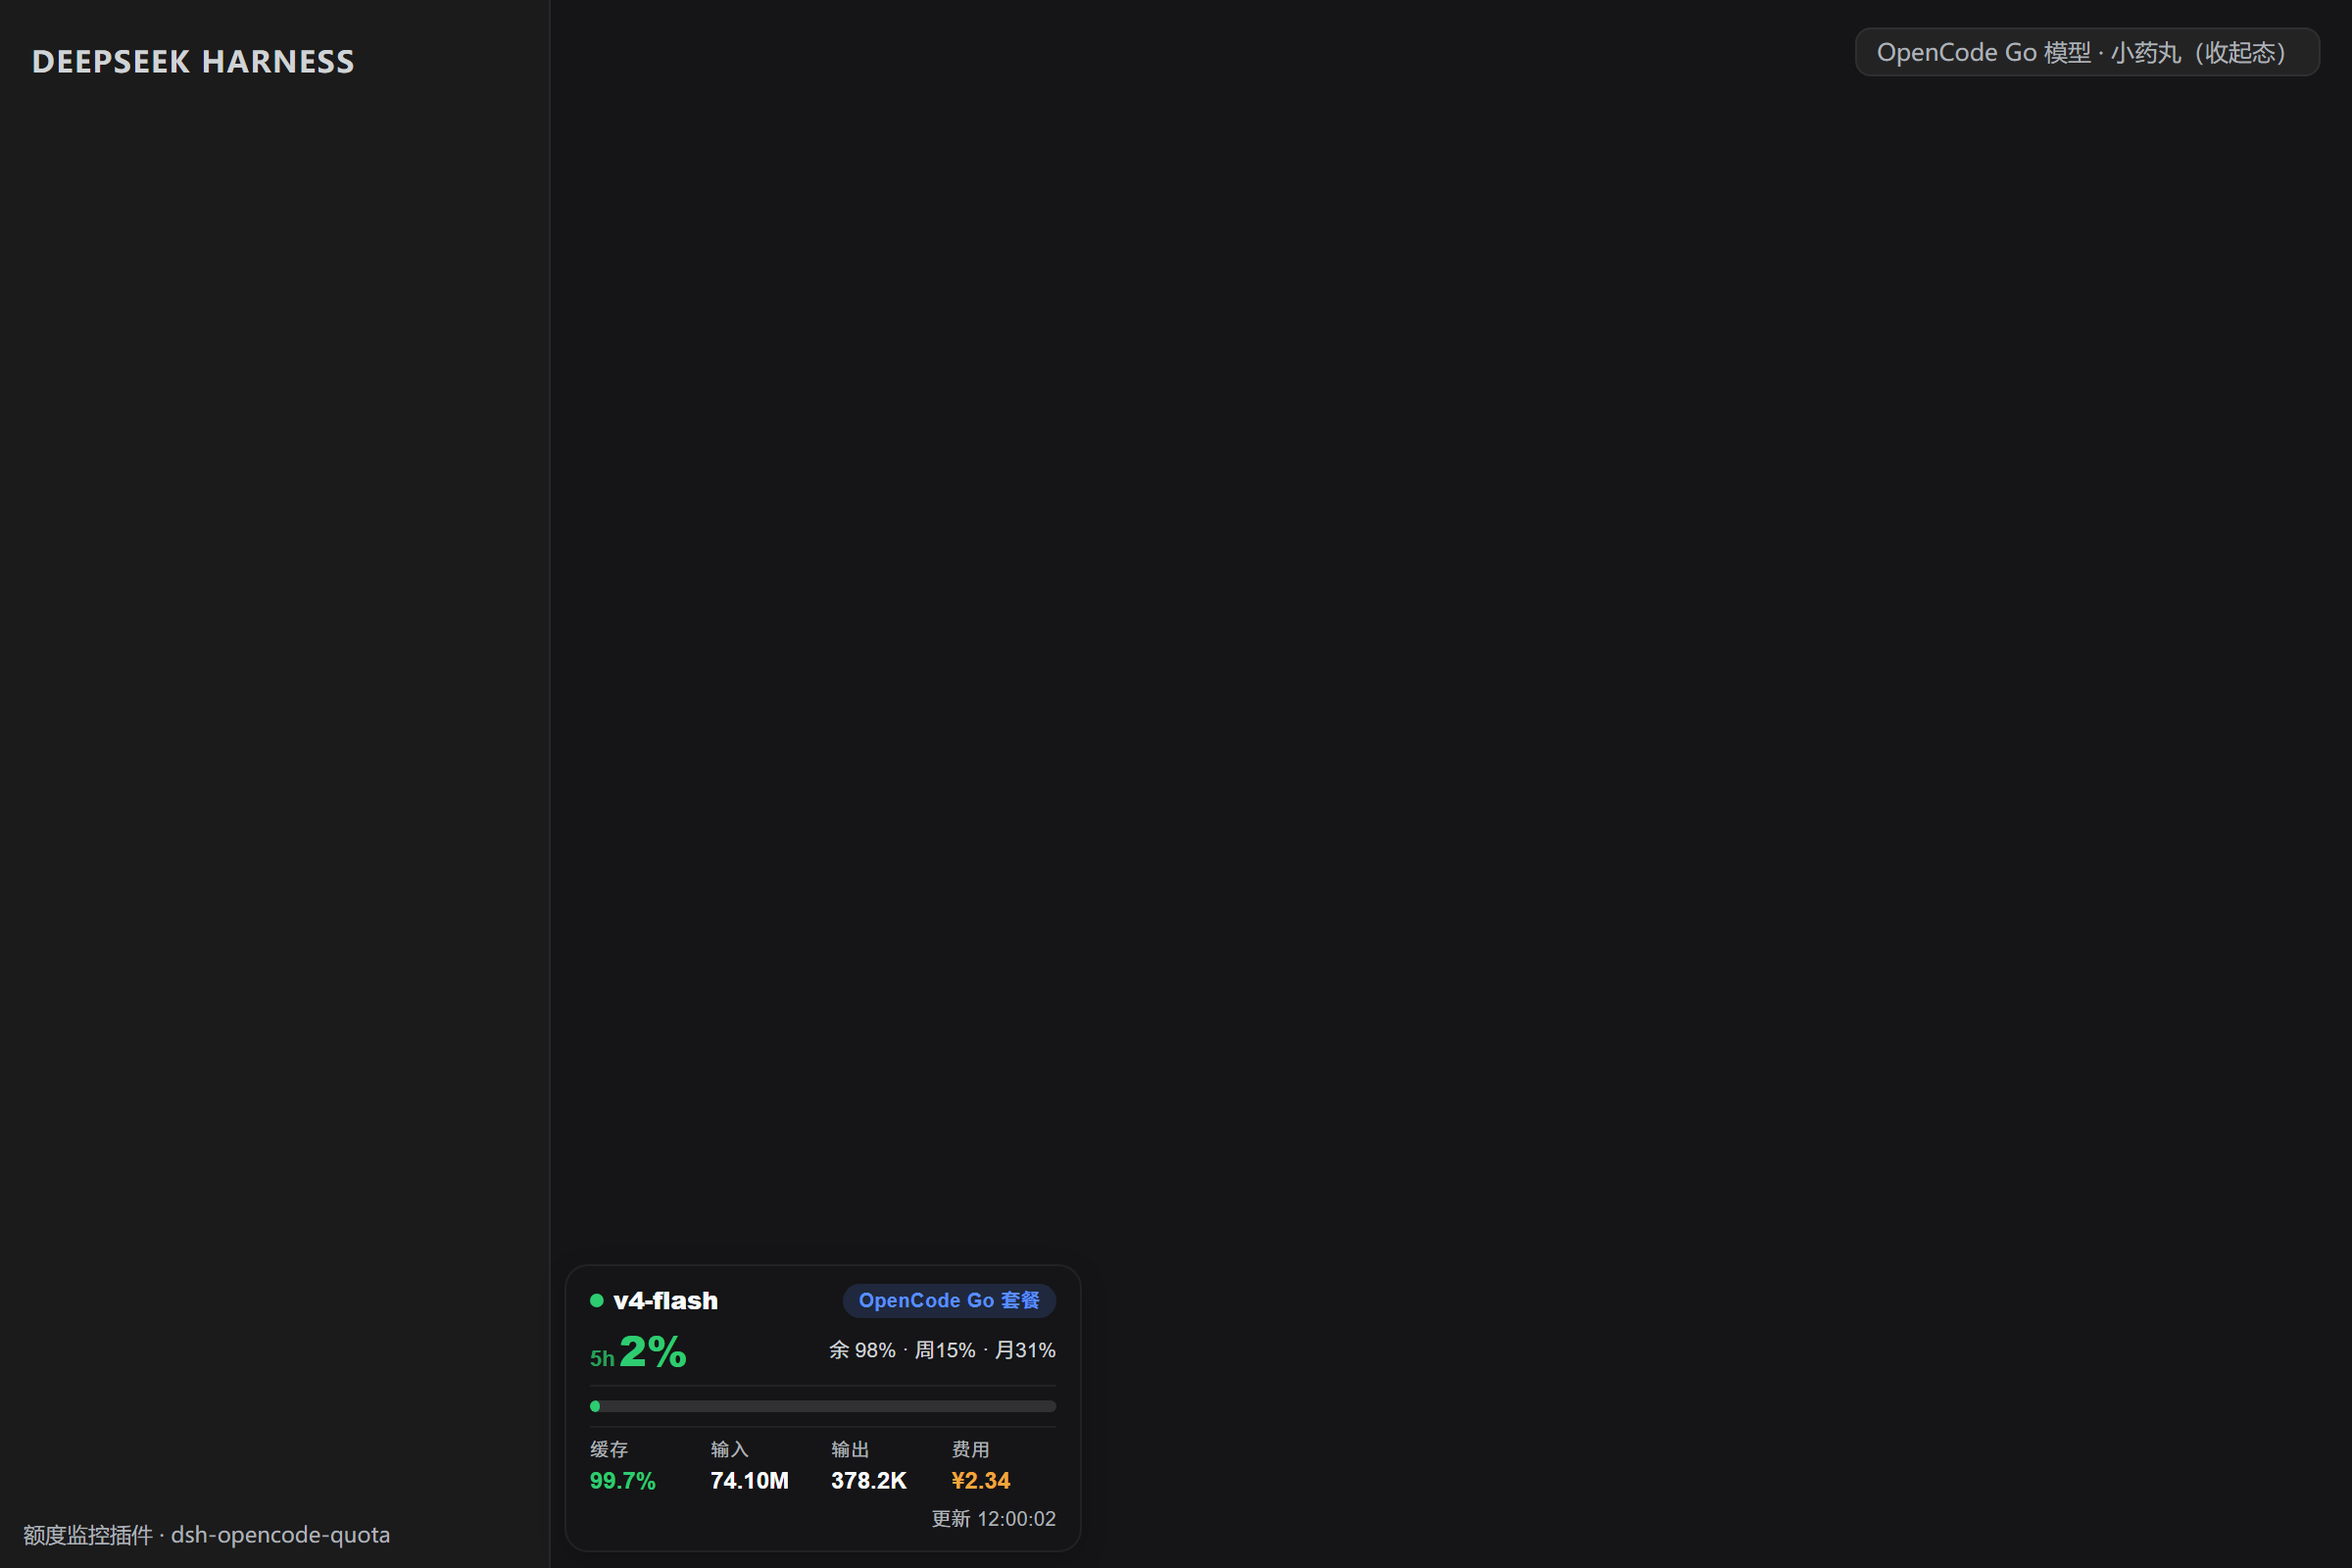
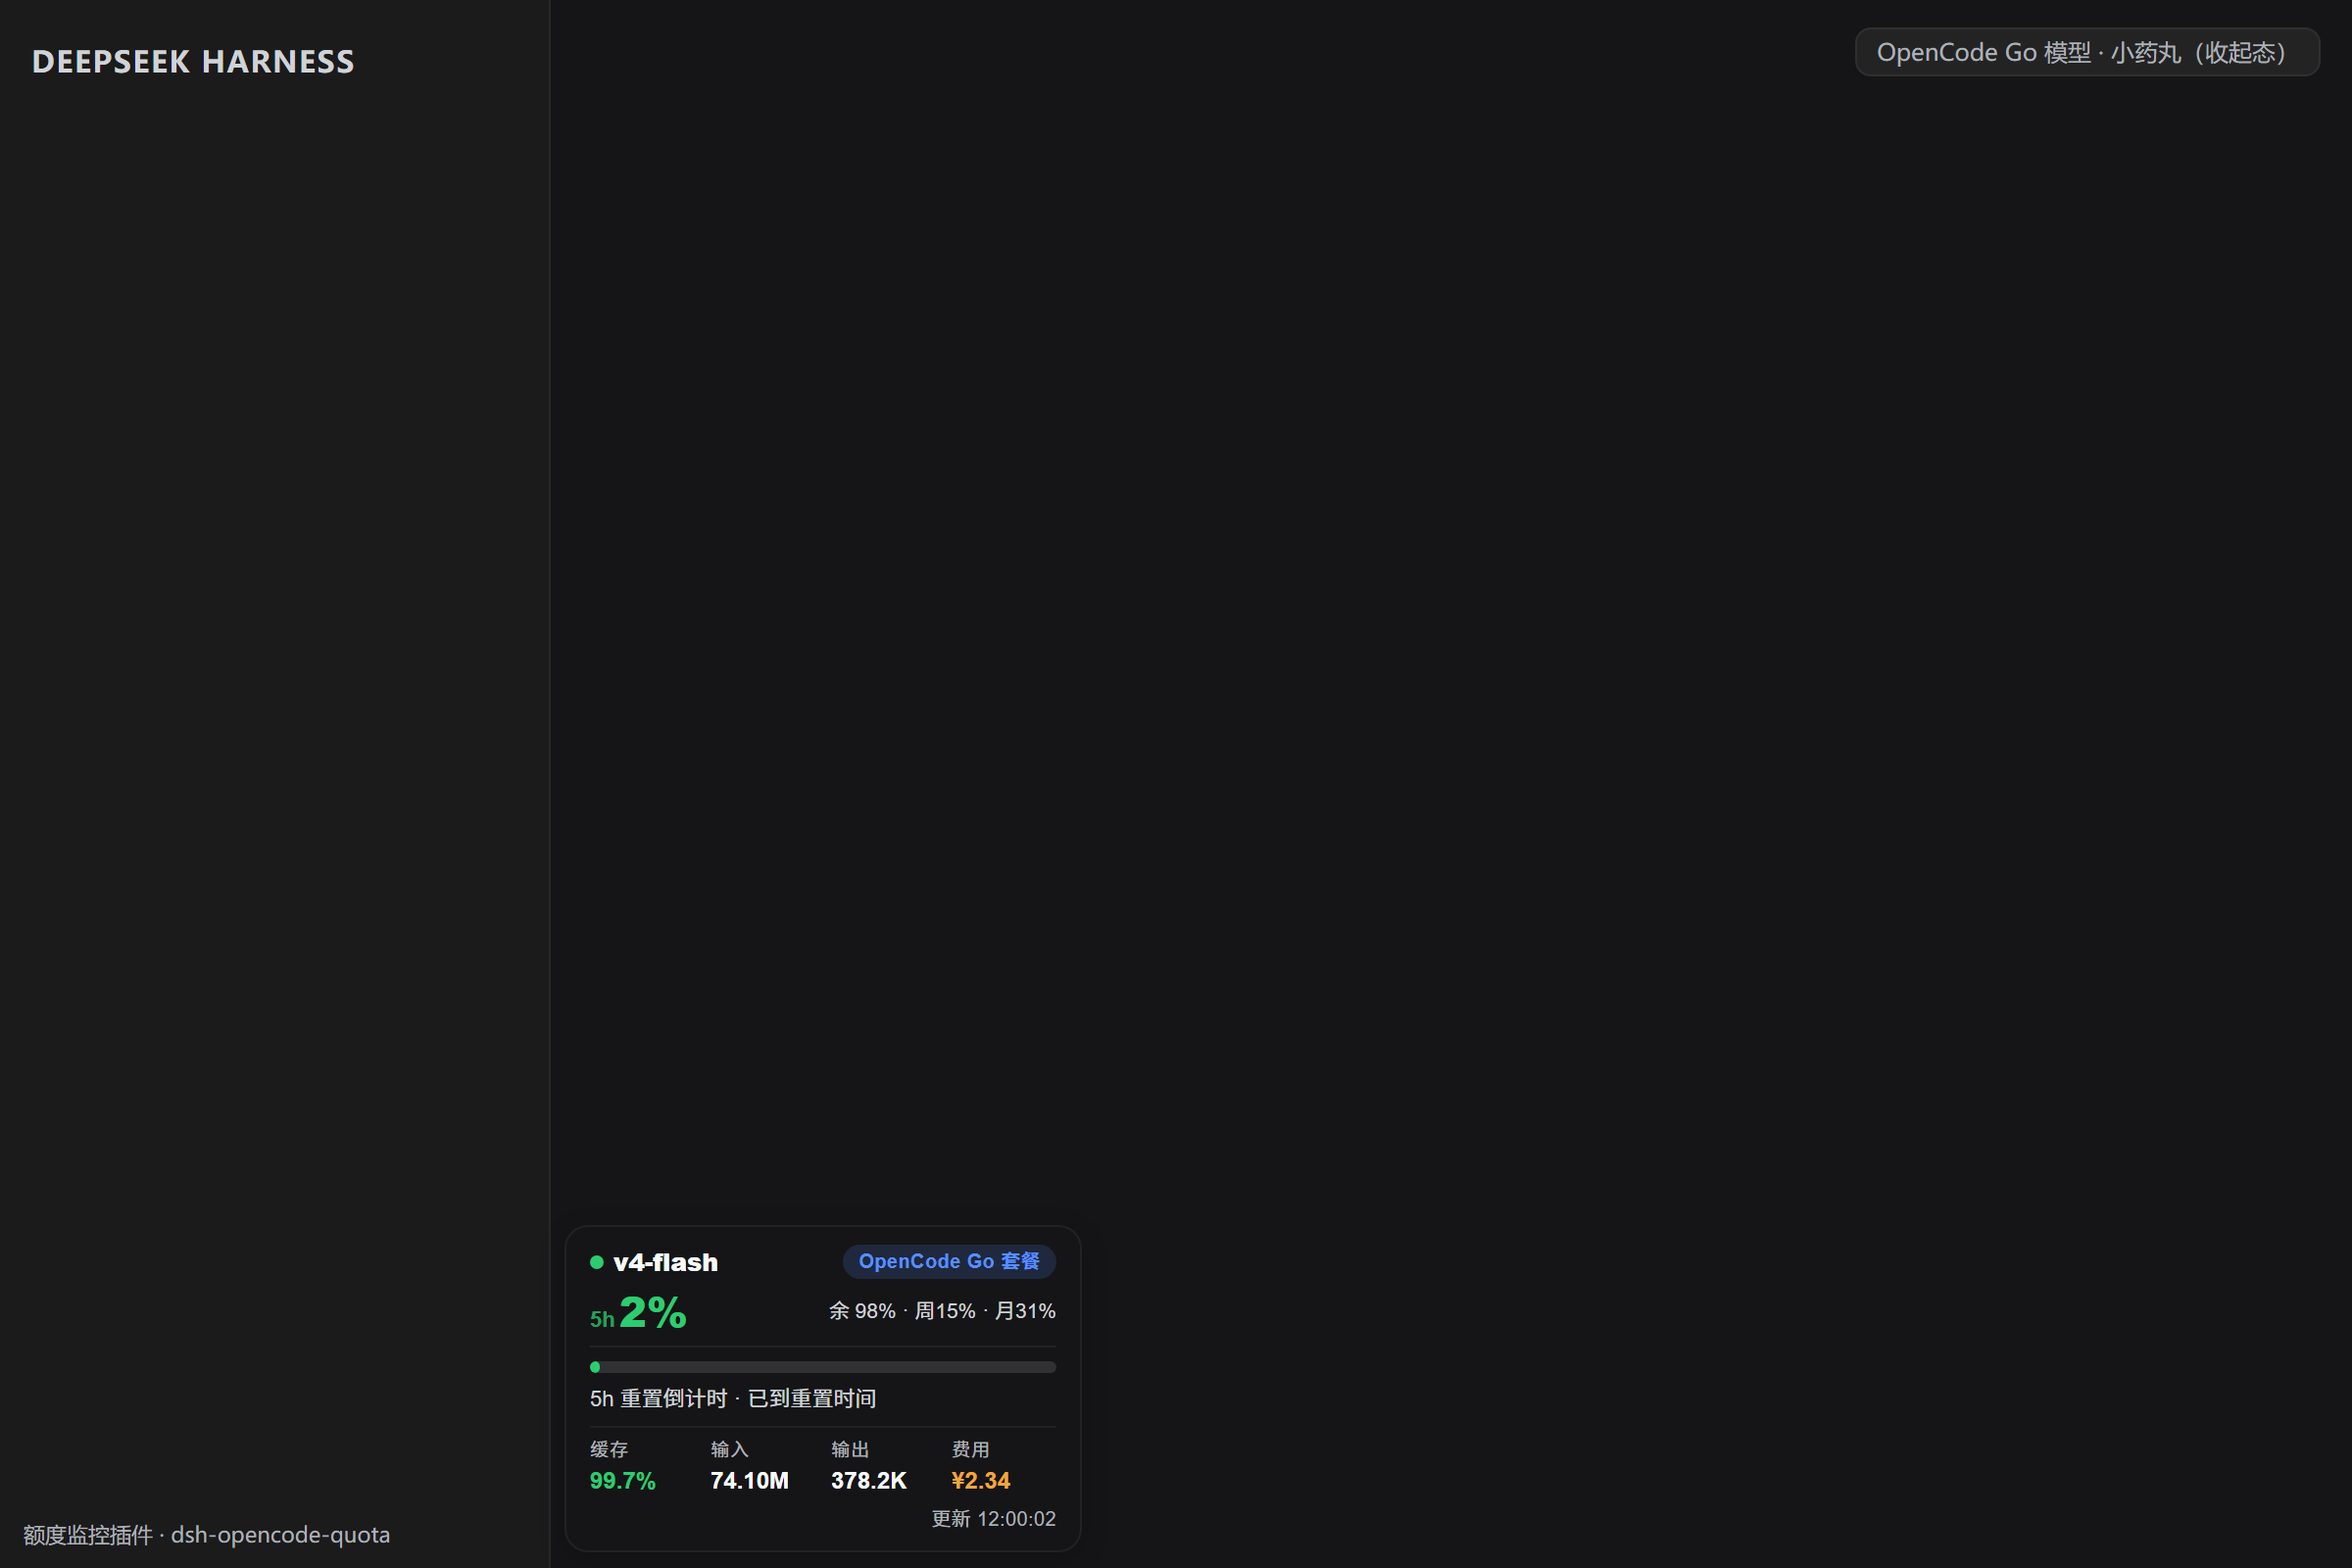
sync v0.5.0 from dsh-plugins/opencode-quota

Changed region(s): [[0.25, 0.7812, 0.4688, 0.9062]]

diff --git a/lib/client.js b/lib/client.js
@@ -576,10 +576,11 @@ window.__ModuleLoader__.load({
 		/**
 		 * The monitor widget: compact draggable summary card (collapsed) /
 		 * dashboard window (expanded), registered into the "shell.overlay" slot.
-		 * @param props - slot props incl. the injected `sessionsApi` (Remote face
-		 * of the sessions gateway) and `currentSessionId` (live reader).
+		 * @param props - slot props incl. `sessionsApi` (Remote face of the sessions
+		 * gateway), `currentSessionId` (live reader) and `subscribeModelStore`
+		 * (composer model-directory subscription for instant switch detection).
 		 */
-		function QuotaMonitor({ sessionsApi, currentSessionId }) {
+		function QuotaMonitor({ sessionsApi, currentSessionId, subscribeModelStore }) {
 			const [open, setOpen] = react.useState(false);
 			const [opencode, setOpencode] = react.useState({ status: "loading", at: new Date() });
 			const [deepseek, setDeepseek] = react.useState({ status: "loading", at: new Date() });
@@ -602,6 +603,8 @@ window.__ModuleLoader__.load({
 			});
 			const cardRef = react.useRef(null);
 			const suppressClickRef = react.useRef(false);
+			const modelSubRef = react.useRef(null);
+			const refreshRef = react.useRef(null);
 
 			/** Fetch the current session's stats/usage/cost (needs provider+model for pricing). */
 			const fetchTask = react.useCallback((provider, modelName, at) => {
@@ -636,6 +639,20 @@ window.__ModuleLoader__.load({
 					setDeepseek(ds);
 				});
 				const sessionId = typeof currentSessionId === "function" ? currentSessionId() : void 0;
+				/* keep the composer model-directory subscription on the current session */
+				if (modelSubRef.current !== null && modelSubRef.current.sessionId !== sessionId) {
+					modelSubRef.current.unsubscribe();
+					modelSubRef.current = null;
+				}
+				if (modelSubRef.current === null && typeof subscribeModelStore === "function") {
+					modelSubRef.current = {
+						sessionId,
+						unsubscribe: subscribeModelStore(sessionId, () => {
+							/* model switch in the chat box: update immediately */
+							if (refreshRef.current !== null) refreshRef.current();
+						})
+					};
+				}
 				if (sessionId === void 0 || sessionId === null) {
 					setModel({ status: "none", at });
 					setTask({ status: "none", at });
@@ -659,7 +676,9 @@ window.__ModuleLoader__.load({
 						setModel({ status: "error", error: String((error && error.message) || error), at });
 						fetchTask("", "", at);
 					});
-			}, [sessionsApi, currentSessionId, fetchTask]);
+			}, [sessionsApi, currentSessionId, fetchTask, subscribeModelStore]);
+
+			refreshRef.current = refresh;
 
 			react.useEffect(() => {
 				refresh();
@@ -670,6 +689,10 @@ window.__ModuleLoader__.load({
 				document.addEventListener("visibilitychange", onVisible);
 				window.addEventListener("focus", onVisible);
 				return () => {
+					if (modelSubRef.current !== null) {
+						modelSubRef.current.unsubscribe();
+						modelSubRef.current = null;
+					}
 					clearInterval(timer);
 					document.removeEventListener("visibilitychange", onVisible);
 					window.removeEventListener("focus", onVisible);
@@ -828,7 +851,7 @@ window.__ModuleLoader__.load({
 						(0, react_jsx_runtime.jsx)("span", { className: "oq-c-hero-sub", children: heroSub }, "plan-sub"),
 						/* zone separator */
 						(0, react_jsx_runtime.jsx)("span", { className: "oq-c-sep" }, "sep"),
-						/* zone 3: usage line (DeepSeek) or 5h progress bar (Go) */
+						/* zone 3: 5h progress bar + reset countdown (Go) or usage line (DeepSeek) */
 						useDs
 							? (0, react_jsx_runtime.jsx)("span", {
 								className: "oq-c-usage",
@@ -836,14 +859,22 @@ window.__ModuleLoader__.load({
 									? "累计用量 …"
 									: `累计 输入 ${fmtTokens(dsUsage.uncachedInputTokens)} · 缓存读取 ${fmtTokens(dsUsage.cacheReadTokens)} · 输出 ${fmtTokens(dsUsage.outputTokens)}`
 							}, "usage")
-							: (0, react_jsx_runtime.jsx)("span", {
-								className: "oq-c-bar",
-								children: (0, react_jsx_runtime.jsx)("i", {
-									style: {
-										width: `${goHeadline === null ? 0 : clamp(goHeadline.percent, 0, 100)}%`,
-										background: goHeadline === null ? "#ef5350" : percentColor(goHeadline.percent)
-									}
-								})
+							: (0, react_jsx_runtime.jsxs)(react_jsx_runtime.Fragment, {
+								children: [
+									(0, react_jsx_runtime.jsx)("span", {
+										className: "oq-c-bar",
+										children: (0, react_jsx_runtime.jsx)("i", {
+											style: {
+												width: `${goHeadline === null ? 0 : clamp(goHeadline.percent, 0, 100)}%`,
+												background: goHeadline === null ? "#ef5350" : percentColor(goHeadline.percent)
+											}
+										})
+									}, "bar"),
+									(0, react_jsx_runtime.jsx)("span", {
+										className: "oq-c-usage",
+										children: `5h 重置倒计时 · ${goRolling === null ? "…" : formatCountdown(goRolling.resetsAt)}`
+									}, "countdown")
+								]
 							}, "usage"),
 						/* zone 4: task metric grid (label + value cells) */
 						cells !== null
@@ -964,10 +995,27 @@ window.__ModuleLoader__.load({
 				id: "opencode-quota-monitor",
 				order: 0,
 				registrant: "dsh-opencode-quota",
-				inject: () => ({
-					sessionsApi: ctx.connection?.api?.sessions,
-					currentSessionId: () => ctx.sessions?.list?.getSnapshot()?.current
-				})
+				inject: () => {
+					/**
+					 * Subscribe to the composer's per-session model directory store so a
+					 * model switch in the chat box updates the monitor immediately.
+					 * Soft dependency: no-ops when ui-model-selection is absent.
+					 */
+					const subscribeModelStore = (sessionId, listener) => {
+						const directories = ctx.get("modelDirectories");
+						if (directories === void 0 || directories === null) return () => {};
+						try {
+							return directories.directoryFor(sessionId).store.subscribe(listener);
+						} catch {
+							return () => {};
+						}
+					};
+					return {
+						sessionsApi: ctx.connection?.api?.sessions,
+						currentSessionId: () => ctx.sessions?.list?.getSnapshot()?.current,
+						subscribeModelStore
+					};
+				}
 			}, QuotaMonitor));
 		}
 		//#endregion

diff --git a/README.md b/README.md
@@ -56,12 +56,13 @@
 ### 浏览器端 (`lib/client.js`) — 左下角监控窗口
 
 - **收起态**：一张**可拖拽**的状态条式摘要卡片，**宽度跟随侧边栏**（约 `侧边栏宽 - 16px`），
-  聚焦**当前使用的模型**：
+  聚焦**当前使用的模型**，**与聊天框模型选择实时同步**（切换 DeepSeek ↔ OpenCode Go
+  的瞬间卡片即切换对应套餐视图）：
   - 第 1 行：模型名 + 套餐标签（DeepSeek API / OpenCode Go 套餐）；
   - 第 2-3 行：**当前套餐的额度/余额** —— DeepSeek 模型显示 `¥余额`、可用状态、
     充值明细 + 整行**累计用量**（输入/缓存读取/输出）；OpenCode Go 模型按
     **5小时 → 周 → 月** 优先级展示：`5h 已用%`（大字，按使用率着色）+ 5h 进度条 +
-    `余% · 周% · 月%` 并列一行；
+    `余% · 周% · 月%` 并列一行 + **5h 重置倒计时**（`5h 重置倒计时 · 1 小时 7 分后`）；
   - 第 4 行：**任务四指标** `任务 缓存98.7% · 入3.63M · 出119.0K · ¥0.336`
     —— 缓存命中率 / 输入 token / 输出 token / **预估费用**（按 API 单价 × 用量
     USD→CNY 折算；价格每日自动刷新，见下）；

diff --git a/CHANGELOG.md b/CHANGELOG.md
@@ -1,5 +1,14 @@
 # Changelog
 
+## 0.5.0 (2026-08-14)
+
+- **模型切换实时同步**：订阅聊天框模型选择器的 ModelDirectory store —— 用户在输入框
+  切换模型（DeepSeek ↔ OpenCode Go）的瞬间，小药丸立即切换成对应套餐的额度/余额视图，
+  无需等待轮询。软依赖：ui-model-selection 缺席时自动降级为轮询。
+- **5h 重置倒计时**：OpenCode Go 卡片新增整行 `5h 重置倒计时 · X 小时 X 分后`（与
+  展开面板的 5小时 行同源）。
+- 截图更新（含 5h 倒计时行）。
+
 ## 0.4.2 (2026-08-14)
 
 - **小药丸视觉分层**（五个区带，重点突出）：
